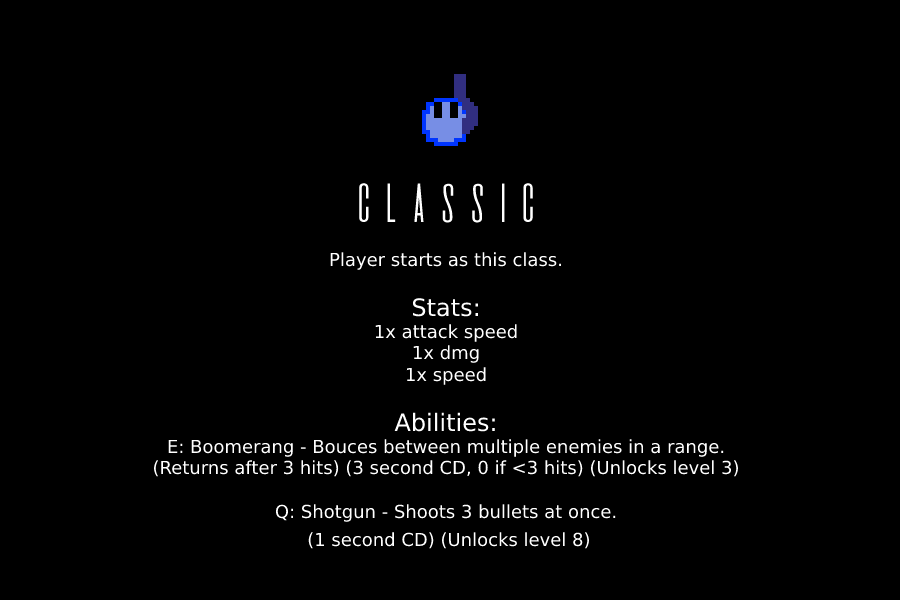
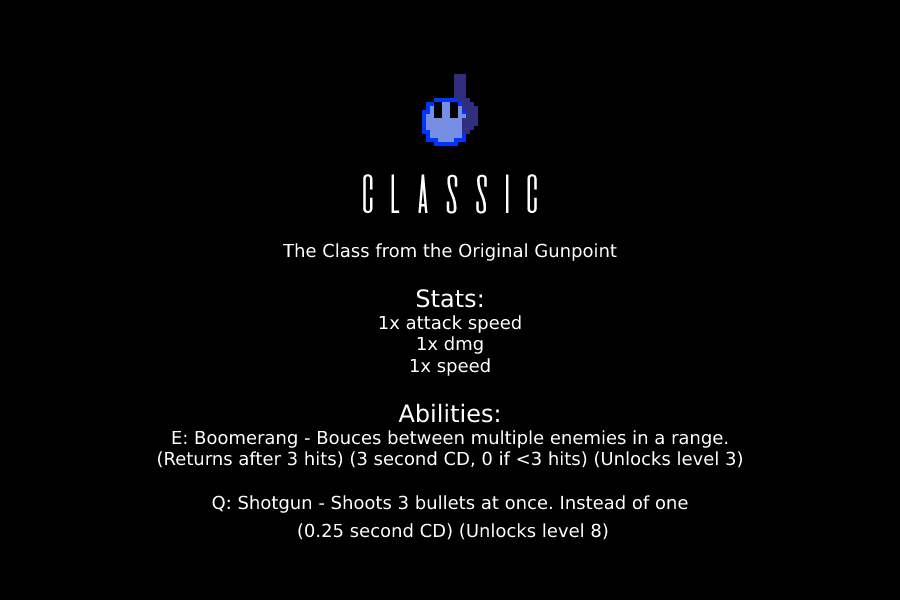
HealthBar Added

Changed region(s): [[0.1556, 0.48, 0.84, 0.93], [0.3111, 0.39, 0.6844, 0.45], [0.3733, 0.3, 0.6222, 0.36]]

diff --git a/Board.java b/Board.java
@@ -20,6 +20,8 @@ public class Board extends JPanel implements ActionListener, KeyListener{
     private JLabel l1;
     private ClassSelection cselect;
     private TitleScreen title;
+    private Credits credits;
+    private Bar health;
 
     public Board() {
         setPreferredSize(new Dimension(50 * 18, 50 * 12));
@@ -48,10 +50,18 @@ public class Board extends JPanel implements ActionListener, KeyListener{
 
             }
             public void mousePressed(MouseEvent e){
-                player.click(true);
+                if(player != null) {
+                    player.click(true);
+                }else if (title != null){
+                    title.click();
+                }
             }
             public void mouseReleased(MouseEvent e){
-                player.release();
+                if(player != null) {
+                    player.release();
+                }else if (title != null){
+                    title.release();
+                }
             }
             public void mouseEntered(MouseEvent e){
 
@@ -103,21 +113,46 @@ public class Board extends JPanel implements ActionListener, KeyListener{
                 if(entities.get(i) instanceof ClassSelection){
                     pClassn = ((ClassSelection)entities.get(i)).classn;
                     player = new Player(pClassn);
+                    health = new Bar("images/health.png", new Vector2(125, 25), 10, true);
                     entities.add(player);
+                    entities.add(health);
                     cselect = null;
                     l1.setVisible(true);
                 }
                 if(entities.get(i) instanceof TitleScreen){
-                    cselect = new ClassSelection();
-                    entities.add(cselect);
-                    title = null;
+                    if(title.next instanceof ClassSelection) {
+                        cselect = (ClassSelection)title.next;
+                        entities.add(cselect);
+                        title = null;
+                    }else{
+                        credits = (Credits)title.next;
+                        entities.add(credits);
+                        title = null;
+                    }
+                }
+                if(entities.get(i) instanceof Credits){
+                    title = new TitleScreen();
+                    entities.add(title);
+                    credits = null;
+                }
+                if(entities.get(i) instanceof Player){
+                    player = null;
+                    entities = new ArrayList<Entity>();
+                    title = new TitleScreen();
+                    entities.add(title);
+                    entities.add(title);
+                    level = 1;
+                    civiliansC = 0;
+                    civiliansN = 1;
+                    l1.setVisible(false);
                 }
                 entities.remove(i);
                 i--;
             }
         }
         if(player != null) {
-            int num = (int) (Math.random() * 500 / slow);
+            health.setValue(player.hp);
+            int num = (int) (Math.random() * 100 / slow);
             if (num == 1) {
                 int x_val = (int) (Math.random() * 910) - 20;
                 Civilian civ = new Civilian(new Vector2(x_val, -20), 5);
@@ -130,42 +165,42 @@ public class Board extends JPanel implements ActionListener, KeyListener{
                 int rand2 = (int) (Math.random() * 3 / slow);
                 if (rand2 <= 1) {
                     //spawn(new Regular(new Vector2(0, -20), 2, 25), 90);
-                    spawn(new Shield(new Vector2(1,1),1,100,1+level/10,5,1),90);
+                    spawn(new Regular(new Vector2(0,-20),1,25),90);
                 } else {
-                    spawn(new Spiral(new Vector2(0, -20), 2, 100, 25, 10,1), 90);
+                    spawn(new Spiral(new Vector2(0, -20), 2, 100, 25, 10,1), 120);
                 }
-            } else if (level <= 7){
+            } else if (level <= 6){
                 int rand2 = (int) (Math.random() * 8 / slow);
                 if (rand2 <= 1) {
                     spawn(new Regular(new Vector2(0, -20), 2, 25), 90);
                 } else if (rand2 <= 4) {
-                    spawn(new Spiral(new Vector2(0, -20), 2, 100, 25, 10,1), 90);
+                    spawn(new Spiral(new Vector2(0, -20), 2, 100, 25, 10,1), 120);
                 } else{
-                    spawn(new Shield(new Vector2(0, -20), 2, 25, 2, Math.PI/36, 3), 90);
+                    spawn(new Shield(new Vector2(0, -20), 2, 25, 2, 3, 3), 150);
                 }
-            } else if (level <= 11){
+            } else if (level <= 8){
                 int rand2 = (int) (Math.random() * 12 / slow);
                 if (rand2 <= 1) {
                     spawn(new Regular(new Vector2(0, -20), 2, 25), 90);
                 } else if (rand2 <= 4) {
-                    spawn(new Spiral(new Vector2(0, -20), 2, 100, 25, 10,1), 90);
+                    spawn(new Spiral(new Vector2(0, -20), 2, 100, 25, 10,1), 120);
                 } else if (rand2 <= 7){
-                    spawn(new Shield(new Vector2(0, -20), 2, 25, 2, Math.PI/36, 3), 90);
+                    spawn(new Shield(new Vector2(0, -20), 2, 25, 2, 3, 3), 150);
                 } else{
-                    spawn(new Splash(new Vector2(0, -20), 2, 50, 50), 90);
+                    spawn(new Splash(new Vector2(0, -20), 2, 50, 50), 175);
                 }
             }  else{
                 int rand2 = (int) (Math.random() * 16 / slow);
                 if (rand2 <= 1) {
                     spawn(new Regular(new Vector2(0, -20), 2, 25), 90);
                 } else if (rand2 <= 4) {
-                    spawn(new Spiral(new Vector2(0, -20), 2, 100, 25, 10,1), 90);
+                    spawn(new Spiral(new Vector2(0, -20), 2, 100, 25, 10,1), 120);
                 } else if (rand2 <= 7){
-                    spawn(new Shield(new Vector2(0, -20), 2, 25, 2, Math.PI/36, 3), 90);
+                    spawn(new Shield(new Vector2(0, -20), 2, 25, 2, 3, 3), 150);
                 } else if (rand2 <= 11){
-                    spawn(new Splash(new Vector2(0, -20), 2, 50, 50), 90);
+                    spawn(new Splash(new Vector2(0, -20), 2, 50, 50), 175);
                 } else{
-                    spawn(new Rocket(new Vector2(0, -20), 1, 50, 10), 90);
+                    spawn(new Rocket(new Vector2(0, -20), 1, 50, 3), 200);
                 }
             }
 
@@ -182,7 +217,7 @@ public class Board extends JPanel implements ActionListener, KeyListener{
         repaint();
     }
     public void spawn(Entity wut, int chance){
-        int rand = (int) (Math.random() * 50 / slow);
+        int rand = (int) (Math.random() * chance / slow);
         if(rand == 1) {
             int x_val = (int) (Math.random() * 910) - 20;
             wut.pos.x = x_val;
@@ -194,7 +229,15 @@ public class Board extends JPanel implements ActionListener, KeyListener{
     public void paintComponent(Graphics g) {
         super.paintComponent(g);
         for (Entity en : entities) {
-            en.draw(g, this);
+            boolean draw = true;
+            if(en instanceof ShieldSummon){
+                if(((ShieldSummon)en).followEntity.pos.equals(new Vector2(0, -20))){
+                    draw = false;
+                }
+            }
+            if(draw) {
+                en.draw(g, this);
+            }
         }
 
         Toolkit.getDefaultToolkit().sync();
@@ -217,6 +260,9 @@ public class Board extends JPanel implements ActionListener, KeyListener{
         if(player != null) {
             player.keyPressed(e);
         }
+        if(credits != null){
+            credits.keyPressed(e);
+        }
     }
 
     @Override
@@ -230,6 +276,9 @@ public class Board extends JPanel implements ActionListener, KeyListener{
         }
         if(player != null) {
             player.keyReleased(e);
+        }
+        if(credits != null){
+            credits.keyReleased(e);
         }
     }
     public static boolean outOfBoundsX(Vector2 pos){

diff --git a/TitleScreen.java b/TitleScreen.java
@@ -3,10 +3,11 @@ import java.util.HashMap;
 
 public class TitleScreen extends Entity{
     private HashMap<String, Boolean> inputs = new HashMap<String, Boolean>();
-
+    public Entity next = null;
     public TitleScreen() {
         super("images/screens/titleScreen.png", new Vector2(0, 0), new int[]{1}, 25);
         inputs.put("Enter", false);
+        inputs.put("Click", false);
         pos = new Vector2(image.getWidth()/4, image.getHeight()/4);
     }
 
@@ -24,9 +25,29 @@ public class TitleScreen extends Entity{
         }
     }
 
+    public void click(){
+        inputs.replace("Click", true);
+    }
+
+    public void release(){
+        inputs.replace("Click", false);
+    }
+
     public void update() {
         if(inputs.get("Enter")){
             hp = -1;
+            next = new ClassSelection();
+        }
+
+        if(inputs.get("Click")){
+            if((Board.mousePos.x  > 385 && Board.mousePos.x  < 510) && (Board.mousePos.y  > 287 && Board.mousePos.y  < 347)){
+                hp = -1;
+                next = new ClassSelection();
+            }
+            if((Board.mousePos.x  > 348 && Board.mousePos.x  < 550) && (Board.mousePos.y  > 405 && Board.mousePos.y  < 461)){
+                hp = -1;
+                next = new Credits();
+            }
         }
     }
 

diff --git a/Entity.java b/Entity.java
@@ -80,7 +80,20 @@ public abstract class Entity {
         int h = before.getHeight();
         BufferedImage after = new BufferedImage(w, h, BufferedImage.TYPE_INT_ARGB);
         AffineTransform at = new AffineTransform();
-        at.scale(0.5, 0.5);
+        at.scale(scale, scale);
+        AffineTransformOp scaleOp =
+                new AffineTransformOp(at, AffineTransformOp.TYPE_BILINEAR);
+        after = scaleOp.filter(before, after);
+        return after;
+    }
+
+    public BufferedImage scale(BufferedImage image, Vector2 scale){
+        BufferedImage before = image;
+        int w = before.getWidth();
+        int h = before.getHeight();
+        BufferedImage after = new BufferedImage(w, h, BufferedImage.TYPE_INT_ARGB);
+        AffineTransform at = new AffineTransform();
+        at.scale(scale.x, scale.y);
         AffineTransformOp scaleOp =
                 new AffineTransformOp(at, AffineTransformOp.TYPE_BILINEAR);
         after = scaleOp.filter(before, after);

diff --git a/Bar.java b/Bar.java
@@ -1,0 +1,31 @@
+public class Bar extends Entity{
+
+    private double maxValue;
+    private boolean horizon;
+    private String path;
+
+    public Bar(String path, Vector2 pos, double maxValue, boolean x_major){
+        super(path, pos, new int[]{}, 0);
+        this.path = path;
+        this.maxValue = maxValue;
+        this.horizon = x_major;
+    }
+
+    public void setValue(double value){
+        loadImage(path);
+        if(horizon){
+            image = scale(image, new Vector2(value/maxValue, 1));
+        }else{
+            image = scale(image, new Vector2(1, value/maxValue));
+        }
+    }
+
+    public void update(){
+
+    }
+
+    public void collide(Entity other){
+
+    }
+
+}

diff --git a/ShieldSummon.java b/ShieldSummon.java
@@ -1,5 +1,5 @@
 public class ShieldSummon extends Entity {
-    private Shield followEntity;
+    public Shield followEntity;
     private int ID;
     private double cA;
     private double angleSpeed;
